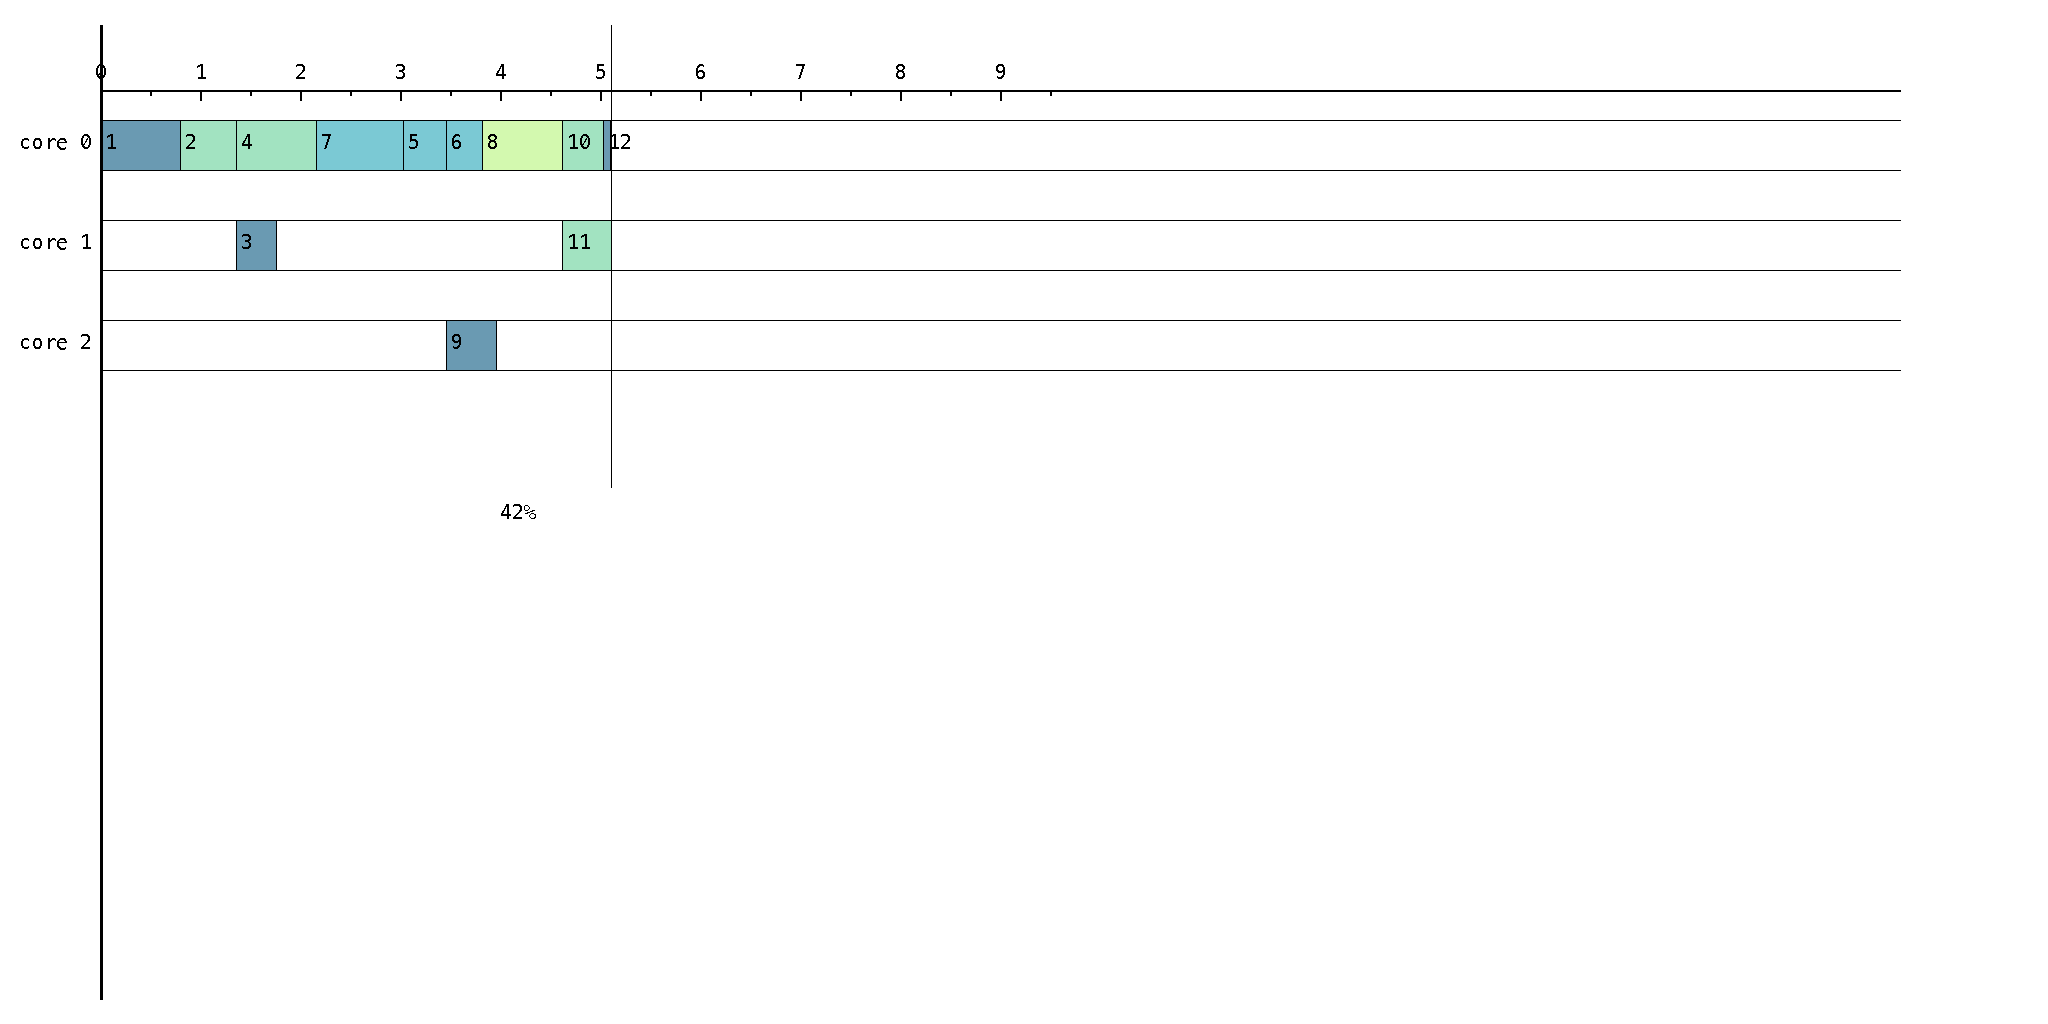
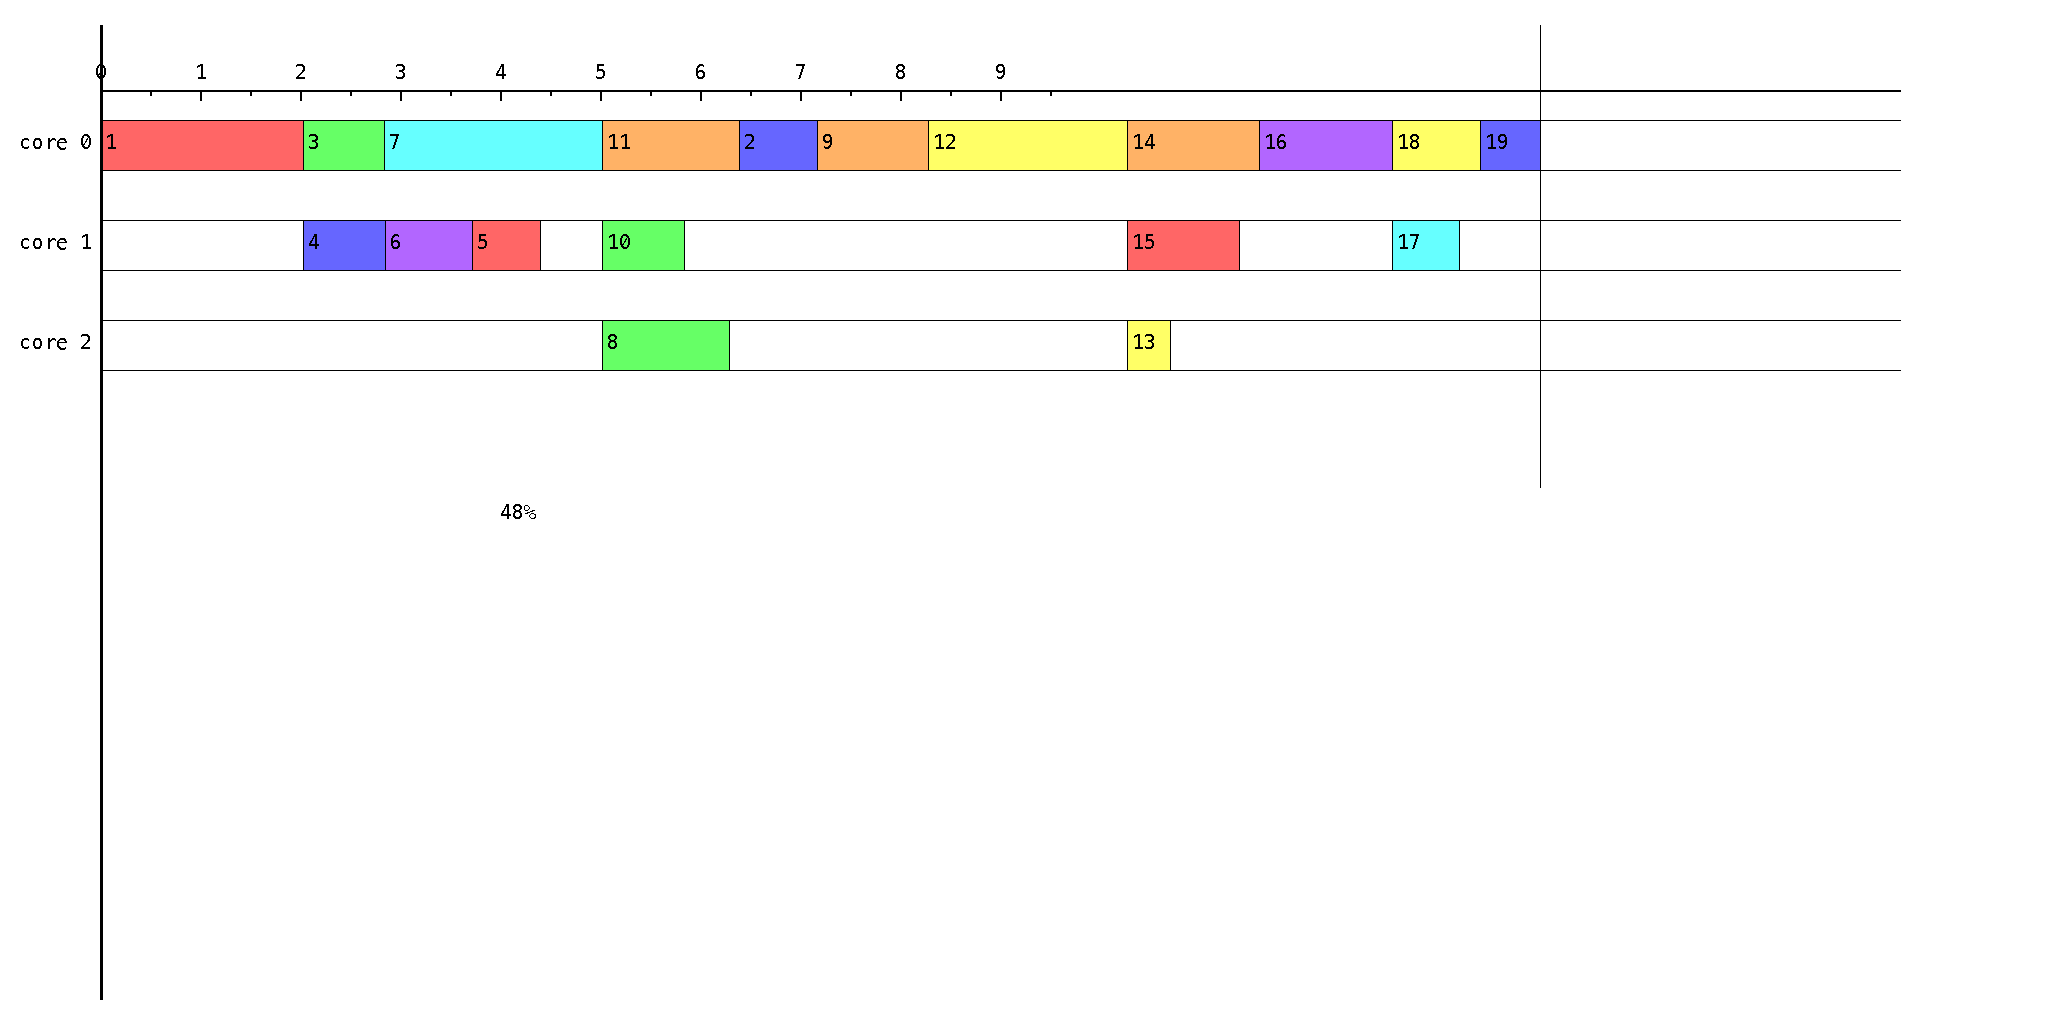
update

diff --git a/gty/src/main.py b/gty/src/main.py
@@ -7,8 +7,8 @@ import draw
 
 def main():
     # init graph
-    impact_factor, arc_num, vertex_num, core = maxcut.graph1_parameter()
-    graph, vertex_cpu, process, communication_cpu = maxcut.initial_graph_1(vertex_num, arc_num, impact_factor)
+    impact_factor, arc_num, vertex_num, core = maxcut.graph4_parameter()
+    graph, vertex_cpu, process, communication_cpu = maxcut.initial_graph_4(vertex_num, arc_num, impact_factor)
 
     # calculate maxtopcut
     S, T, cut = maxcut.maxtopocut(graph, process, vertex_num, core)

diff --git a/gty/src/maxcut.py b/gty/src/maxcut.py
@@ -50,7 +50,7 @@ def initial_graph_1(vertex_num, arc_num, impact_factor):
     vertex_cpu = []
     communication_cpu = []
     for i in range(vertex_num):
-        vertex_cpu.append(random.randint(2,10))
+        vertex_cpu.append(random.randint(2,10)*10)
         for j in range(vertex_num):
             graph[i, j] = -1
     print('vertex_cpu:')
